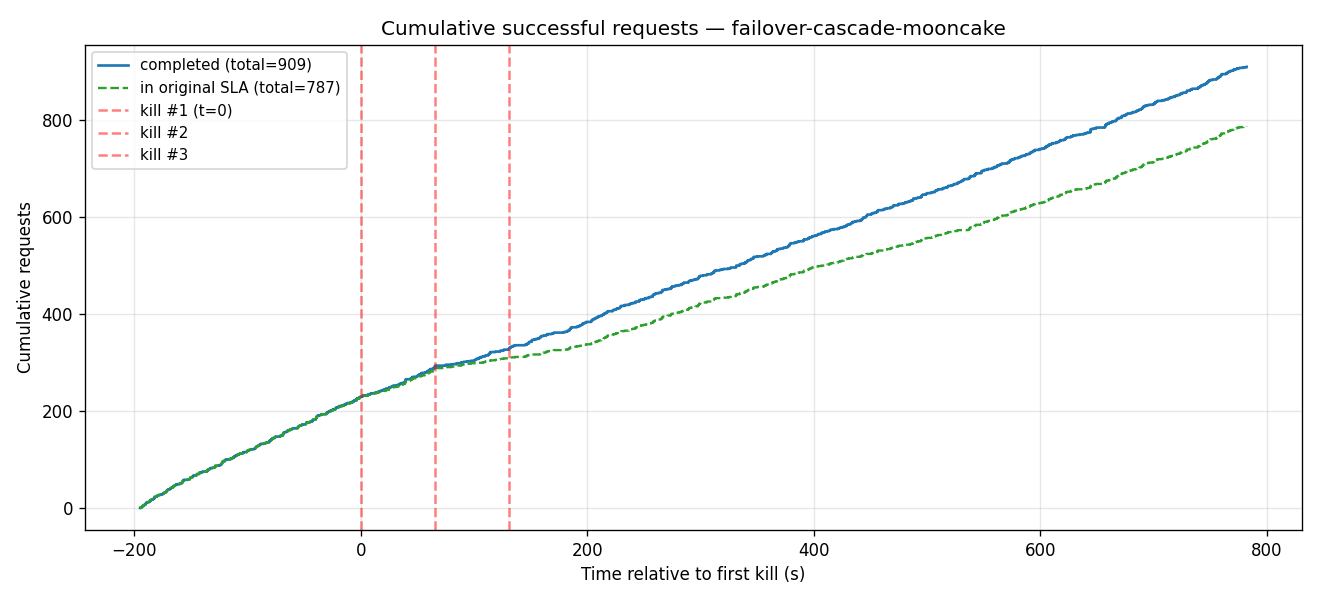
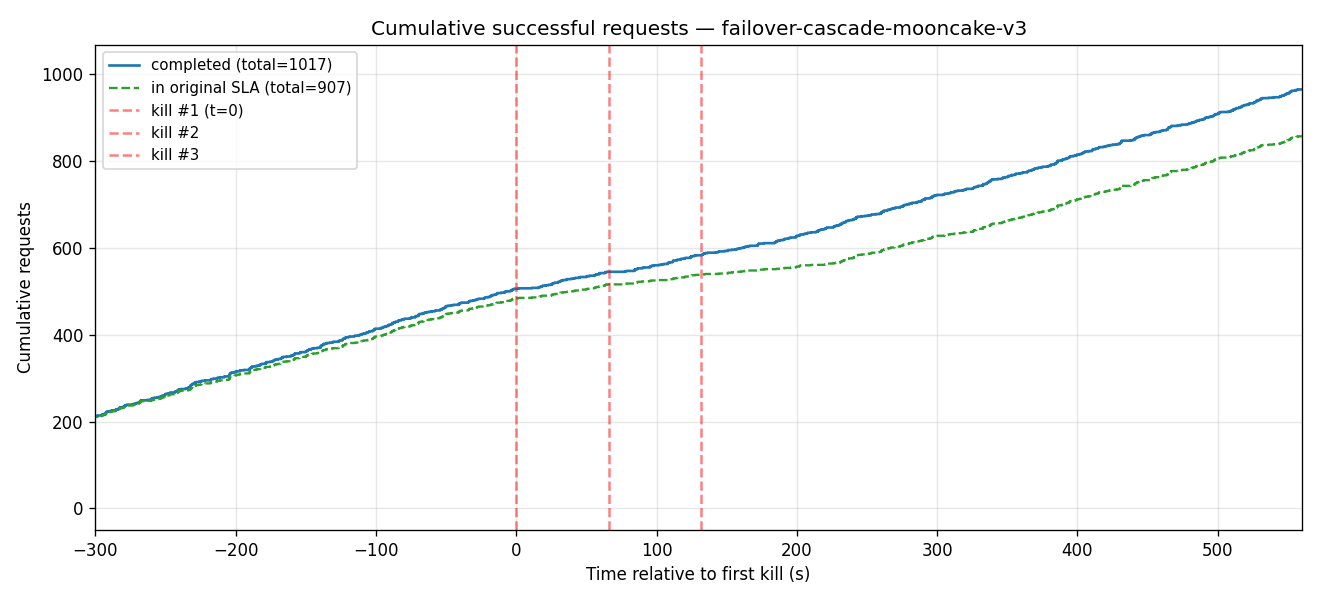
docs(benchmarks): update Kimi cascade result to steady-state pre-kill (v3)
Longer pre-kill load interval so the workload reaches its steady-state
operating point before the cascade; pre-kill baseline is now flat on both
arms and both recover to it. baseline 409 failed / ~150s blackout vs
failover 17 / continuous. README + charts only.

diff --git a/benchmarks/kimi-cascade-failover/README.md b/benchmarks/kimi-cascade-failover/README.md
@@ -4,7 +4,9 @@
 
 A 3-worker deployment is driven under a staggered cascade of 3 engine kills (one per worker, 60 s
 apart), comparing a **baseline** (no failover) against **GMS shadow-failover**. Both arms run the
-identical engine build and configuration, so the only difference is the failover feature.
+identical engine build and configuration, so the only difference is the failover feature. The cascade
+is fired only after the workload reaches its steady-state operating point, so the pre-kill baseline is
+flat and the cascade is the only perturbation.
 
 ## Setup
 
@@ -14,23 +16,27 @@ identical engine build and configuration, so the only difference is the failover
 | **Serving** | vLLM via Dynamo, TP8 per worker, 256K max context, prefix caching, MLA prefill on FlashInfer |
 | **Hardware** | 3× B200 nodes (8 GPUs each, 24 GPUs total); one worker per node |
 | **Failover** | GMS intra-pod shadow — each worker runs an active engine plus a shadow engine sharing the node's 8 GPUs via the GPU Memory Service; on kill, the shadow promotes and keeps serving |
-| **Load** | Code Agent Traffic — KV-reuse trace, 100k/1k ISL/OSL, concurrency 24 |
-| **Fault injection** | staggered cascade of 3 engine kills (T+240 / +300 / +360 s), one per worker |
+| **Load** | Code Agent Traffic — session-based KV-reuse trace, 100k/1k ISL/OSL, concurrency 24 |
+| **Fault injection** | staggered cascade of 3 engine kills (60 s apart), one per worker, fired after the workload reaches steady state |
 
 ## Headline
 
 | | **baseline** (no failover) | **failover** (GMS shadow) |
 |---|---|---|
-| serving through the cascade | **blackout** (all 3 cold-restart) | **continuous** |
-| truly-failed requests | **524** | **14** |
-| decode (steady) | 64 tok/s/user | 65 tok/s/user |
-| decode across kills | declines → gap → recovers | **flat** |
-| TTFT p50 / max | 738 / **24,160 ms** | 765 / **8,519 ms** |
+| serving through the cascade | **blackout** (~150 s, all 3 cold-restart) | **continuous** |
+| truly-failed requests | **409** | **17** |
+| decode — pre-kill / post | 67 / 71 tok/s/user (flat) | 70 / 67 tok/s/user (flat) |
+| TTFT p50 / max | 767 / **22,353 ms** (recovery spike) | 775 / **13,747 ms** |
+
+Steady-state matches on both arms (decode ~64 tok/s/user, TTFT p50 ~770 ms) — the contrast is entirely
+the failover feature.
 
 ## TTFT
 
-Baseline spikes to ~24 s during the recovery backlog and blows past the 5 s SLA; failover stays
-flat and under SLA throughout. Per-request scatter with a 30 s mean on a shared 0–25 k ms y-axis.
+Both arms are flat ~1.2 s before the kills. Baseline breaks across the blackout, then spikes to ~20 s
+on the recovery backlog before returning to ~1.2 s; failover stays continuous with a ~5 s bump at the
+kills and returns to ~1 s. Per-request scatter with a 30 s mean on a shared 0–25 k ms y-axis; 5 s SLA
+shown.
 
 | BASELINE | FAILOVER |
 |:---:|:---:|
@@ -38,9 +44,9 @@ flat and under SLA throughout. Per-request scatter with a 30 s mean on a shared 
 
 ## Per-user decode rate
 
-Baseline breaks across the ~150 s blackout, then recovers; failover holds ~65 tok/s/user across all
-three kills. Both are continuous clouds (high-variance long-context load), well above the 50
-tok/s/user reference.
+The pre-kill window is a flat stationary cloud on both arms (~65–70 tok/s/user). Baseline breaks
+across the ~150 s blackout then recovers to the same level; failover dips briefly at the cascade and
+stays continuous. 50 tok/s/user reference.
 
 | BASELINE | FAILOVER |
 |:---:|:---:|
@@ -48,7 +54,7 @@ tok/s/user reference.
 
 ## Request outcome + cumulative
 
-Baseline loses 524 requests during the blackout; failover loses 14. Cumulative successful requests
+Baseline loses 409 requests during the blackout; failover loses 17. Cumulative successful requests
 flat-line through the baseline outage, while failover climbs steadily throughout.
 
 | BASELINE | FAILOVER |
